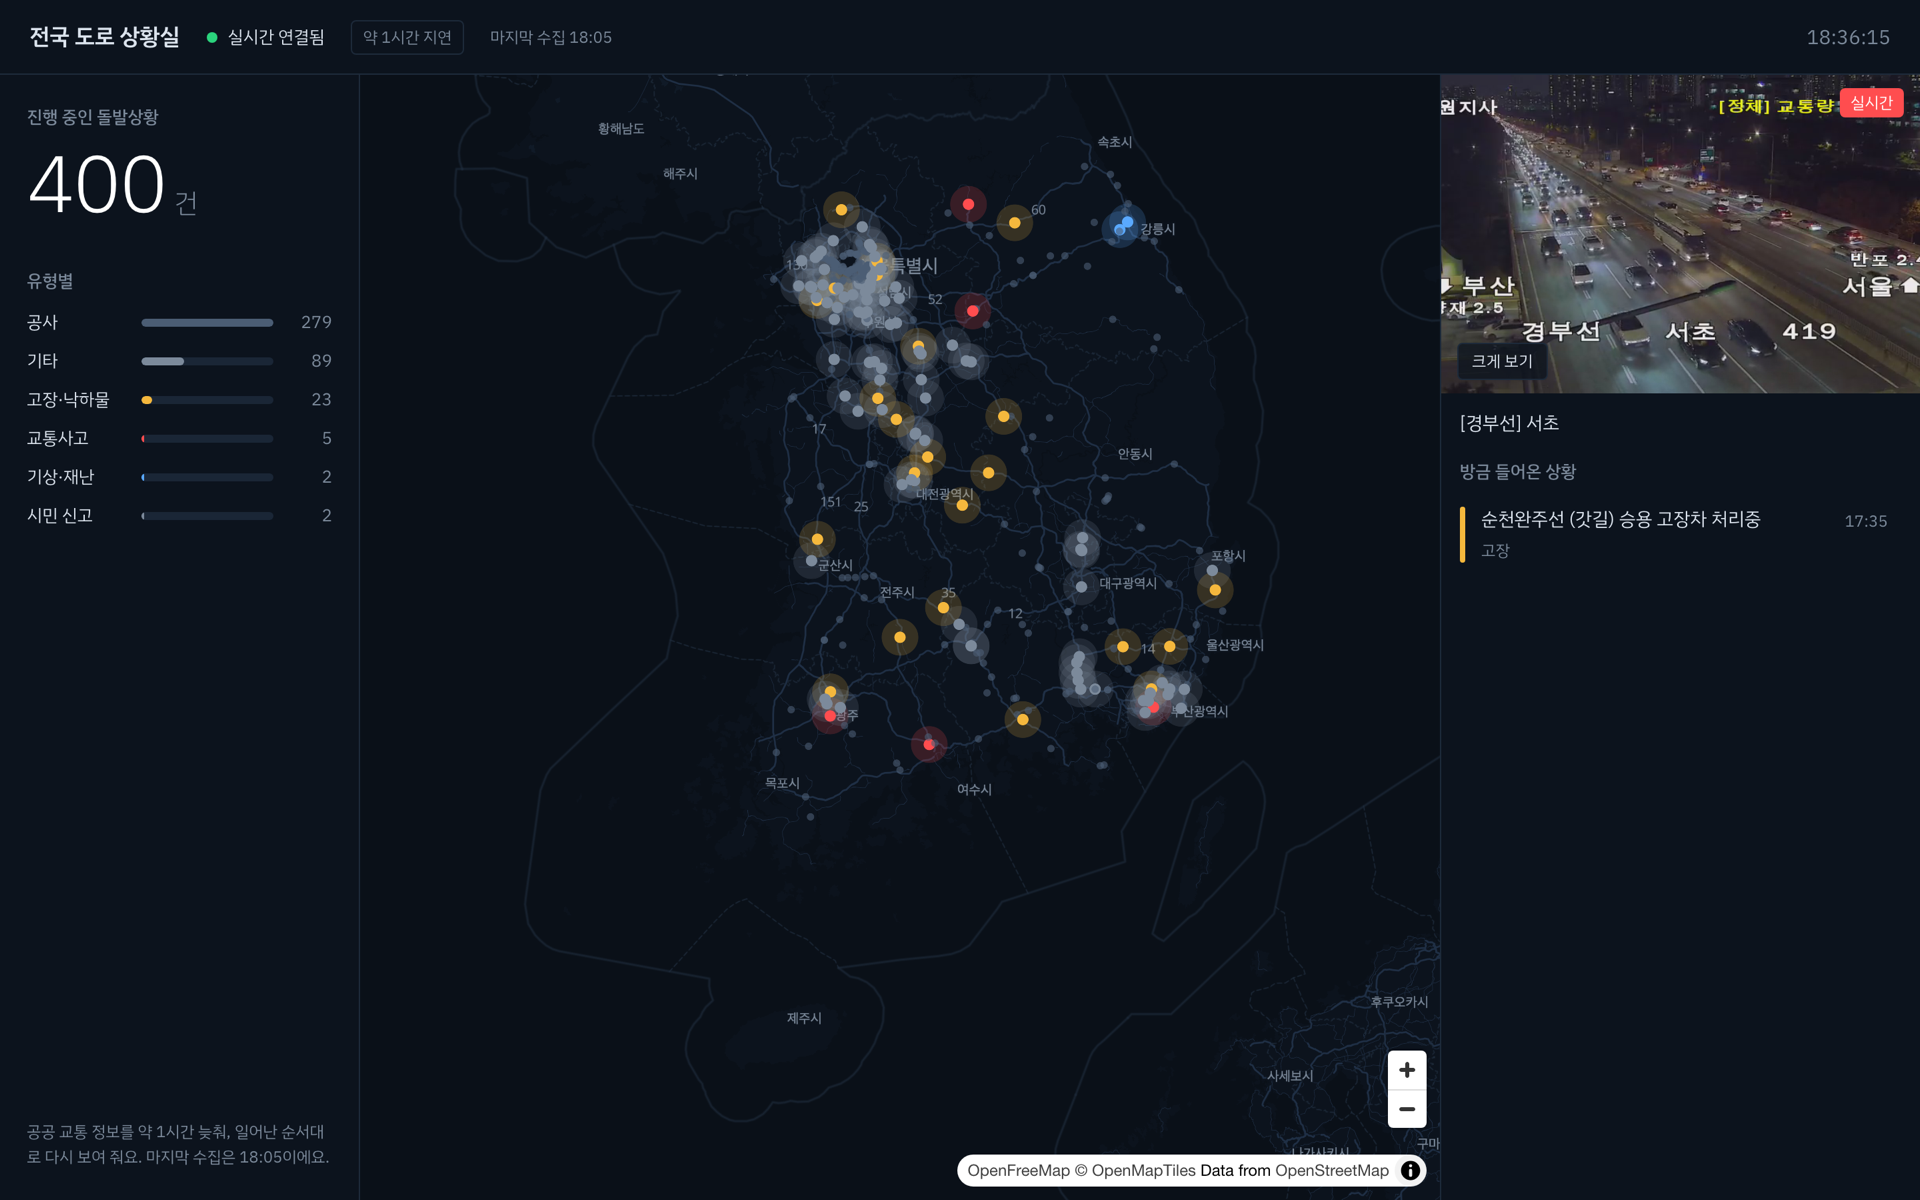
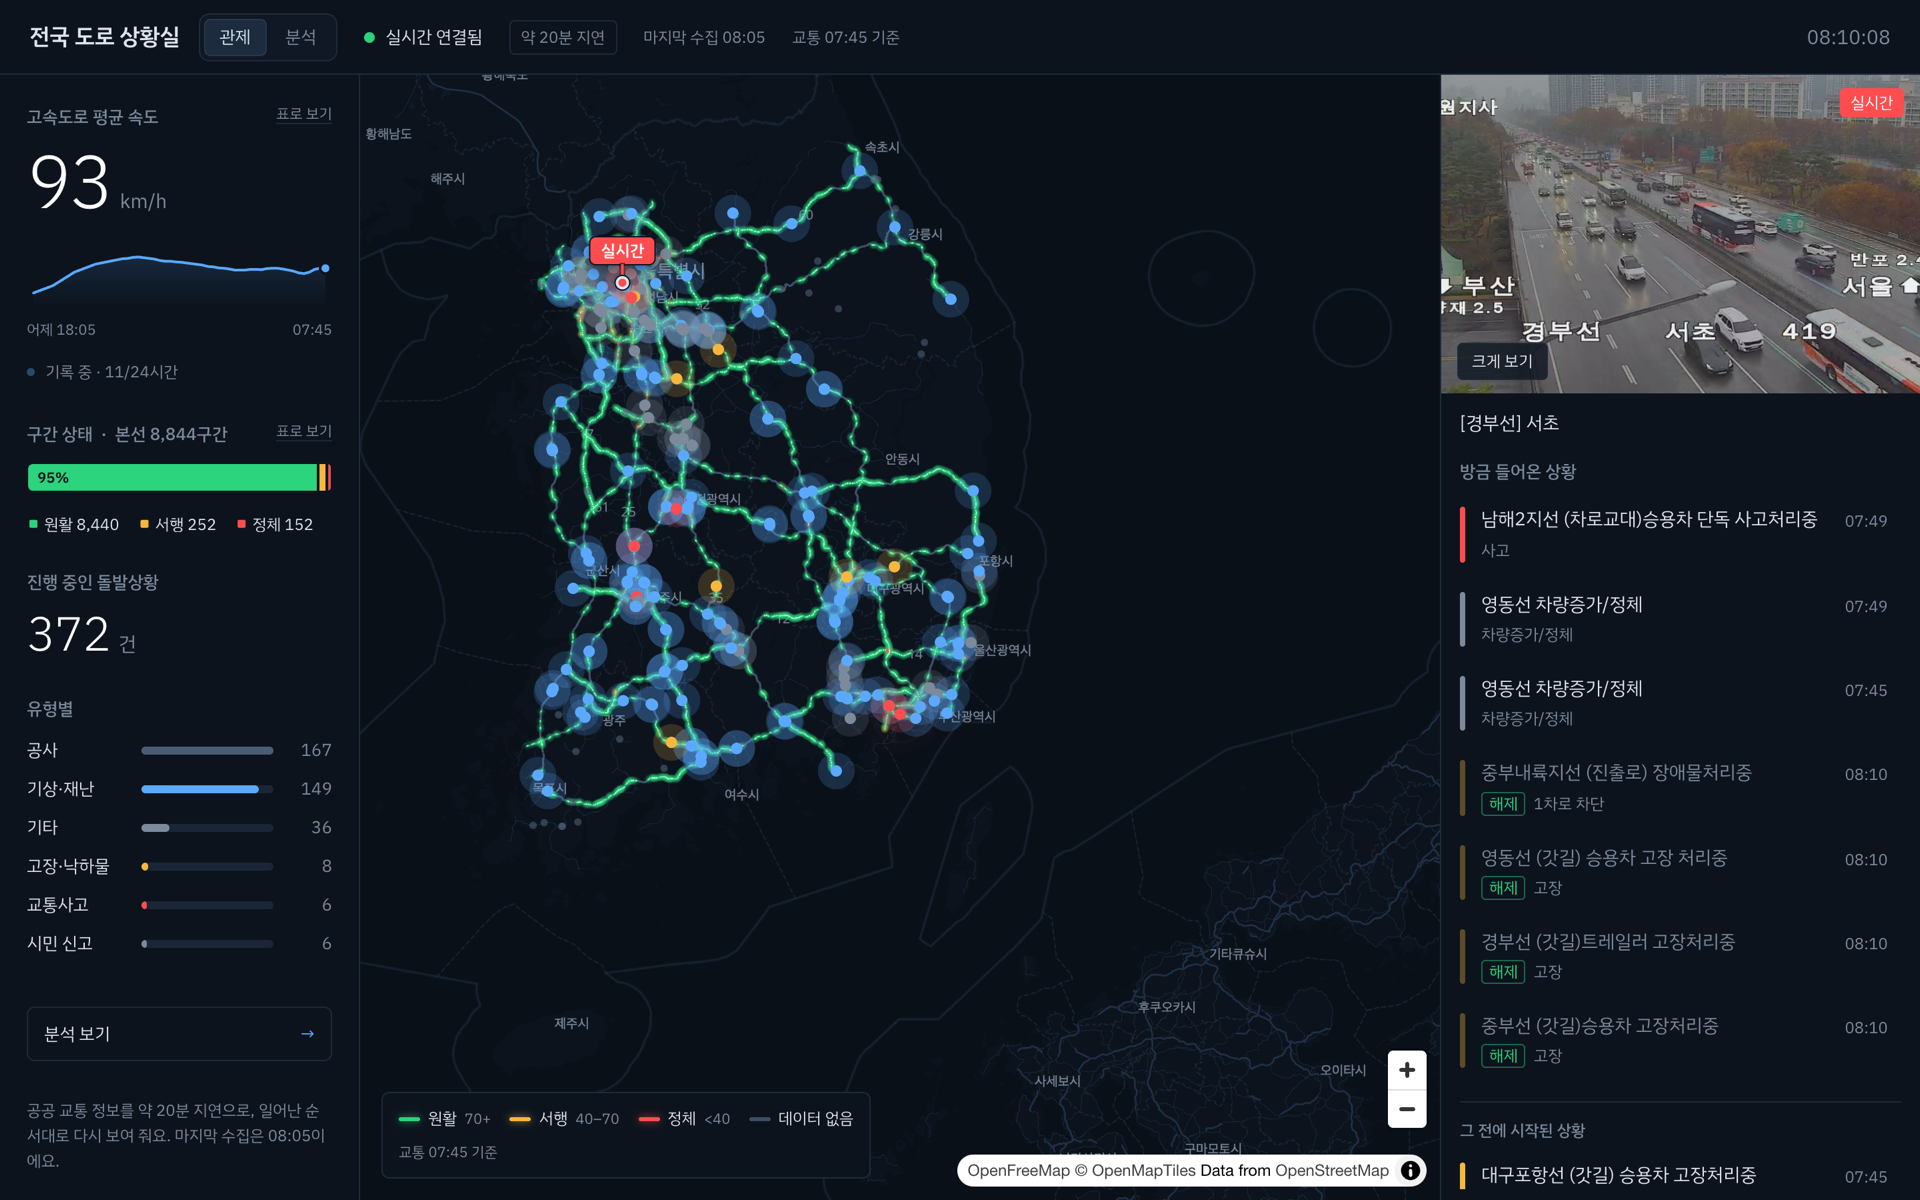
docs: 전국 도로 상황실 카드를 2차 운영 화면과 지금 숫자에 맞춤
카드가 1차(돌발 · 피드 · CCTV) 범위와 1시간 지연 그대로였다. 표지와 화면 두 장을 속도선이 보이는 2026-11-14 운영 화면으로 바꾸고,
지표에 고속도로 속도선(본선 8,844구간)과 지도 타일 재생성(가만히 둔 5초에 1,500번 → 0, 운영 실측)을 넣었다.
ITS 한도 상향 뒤 15분 수집 · 20분 지연으로 바뀐 숫자를 카드 · 구조도 · 근거 문서(project-data.md 6장)에 맞췄고, 테스트는 477건으로 고쳤다.

diff --git a/src/data/projects.ts b/src/data/projects.ts
@@ -631,37 +631,37 @@ export const projects: readonly Project[] = [
     slug: "traffic-room",
     name: "전국 도로 상황실",
     tagline:
-      "ITS 공공 데이터를 지도 · 실시간 피드 · CCTV 생방송 한 화면으로 압축한, 야간 도로 관제실",
+      "ITS 공공 데이터로 전국 고속도로를 실제 속도 색으로 빛나게 그리고, 돌발상황과 CCTV 생방송까지 한 화면에 모은 야간 도로 관제실",
     role: "주제 · 시각 방향 · 구조 선택은 직접, 설계 세부와 구현은 Claude Code",
     order: 6,
     cover: {
       src: "/projects/traffic-room/overview.png",
-      alt: "전국 도로 상황실 — 어두운 지도 위 돌발상황 400여 건과 경부선 CCTV",
+      alt: "전국 도로 상황실 — 속도 색으로 빛나는 전국 고속도로 위 돌발상황과 경부선 서초 CCTV",
     },
     metrics: [
       {
         label: "테스트",
-        value: "176건",
+        value: "477건",
         kind: "measured",
-        note: "Vitest 5 · 송출 순서 · 재접속 따라잡기 · 스케줄러 누락 · 월 예산 보호 재현 포함 · 2026.11.13",
+        note: "Vitest 5 · 송출 순서 · 재접속 따라잡기 · 스케줄러 누락 · 검증 후 덮어쓰기 · 수집 스크립트 재현 포함 · 2026.11.14",
       },
       {
-        label: "CCTV 주소 유효 시간",
-        value: "8시간 이상",
+        label: "고속도로 속도선",
+        value: "본선 8,844구간",
         kind: "measured",
-        note: "발급 후 10분~480분 사이 7회 실측 · 그래서 목록은 하루 3번만 새로 받는다",
+        note: "교통소통 전국 383,618구간 · 75MB 응답에서 본선만 남김 · 위치는 표준노드링크 SHP 를 직접 읽어 연결 · 15분마다 새 색",
       },
       {
-        label: "ITS 호출",
-        value: "월 744 + 186건",
+        label: "지도 타일 재생성",
+        value: "5초에 1,500번 → 0",
         kind: "measured",
-        note: "서비스별 월 1,000건 한도 안 · 돌발 매시 1회 · CCTV 목록 하루 3회 × 2종 · 950건에서 자동 정지",
+        note: "가만히 둔 운영 화면의 워커 메시지 실측 · 흐르는 점선을 dasharray 대신 패턴 이미지 + updateImage 로 바꿔서",
       },
       {
         label: "지연 재생",
-        value: "발생 시각 + 60분",
+        value: "발생 시각 + 20분",
         kind: "structural",
-        note: "매시 수집한 새 상황을 실제 간격대로 하나씩 WebSocket 송출 · 가짜 이벤트 없음 · 지연은 화면에 표시",
+        note: "새 상황을 실제 간격대로 하나씩 WebSocket 송출 · 가짜 이벤트 없음 · 처음 월 1,000건 한도일 땐 + 60분, 한도 상향 뒤 15분 수집으로 줄임",
       },
       {
         label: "재접속",
@@ -673,27 +673,27 @@ export const projects: readonly Project[] = [
         label: "CCTV 재생",
         value: "브라우저 직접 HLS",
         kind: "structural",
-        note: "모든 단계 CORS * 를 실측으로 확인 · 중계 서버 없음 · 만료 시 새 주소 1회 요청 후 안내",
+        note: "모든 단계 CORS * 를 실측으로 확인 · 중계 서버 없음 · 끊기면 복구 → 새 주소 1회 → 회색 \"연결 안 됨\"",
       },
       {
         label: "운영비",
         value: "0원",
         kind: "structural",
-        note: "Vercel Hobby · Render 무료 · Neon 무료 · OpenFreeMap · 수집은 국내 회선 Mac launchd",
+        note: "Vercel Hobby · Render 무료 · Neon 무료(덮어쓰기로 2MB 안팎) · OpenFreeMap · 수집은 국내 회선 Mac launchd",
       },
     ],
     screens: [
       {
         kind: "image",
         src: "/projects/traffic-room/arrival.png",
-        alt: "실시간 피드에 방금 들어온 고장 상황 한 건",
-        caption: "방금 들어온 상황 — 17:35에 난 고장이 18:35에 WebSocket으로 도착했다(운영 화면)",
+        alt: "실시간 피드 맨 위에 방금 들어온 사고 한 건과 해제된 상황들",
+        caption: "방금 들어온 상황 — 07:49에 난 사고가 20분 뒤 WebSocket으로 도착했다. 끝난 상황은 \"해제\"로 내려간다(운영 화면)",
       },
       {
         kind: "image",
         src: "/projects/traffic-room/cctv.png",
-        alt: "중부내륙선 고장을 고르자 영산 CCTV가 재생되는 화면",
-        caption: "상황을 누르면 지도가 옮겨 가고 가장 가까운 CCTV가 재생된다. 근처 CCTV로 바꿀 수 있다",
+        alt: "대구포항선 고장을 고르자 청통와촌 CCTV가 재생되고 지도 핀에 CCTV 이름 툴팁이 뜬 화면",
+        caption: "상황을 누르면 가장 가까운 CCTV가 재생되고, 지도의 \"실시간\" 핀이 그 자리를 가리킨다. 핀에 마우스를 올리면 CCTV 이름",
       },
       {
         kind: "image",
@@ -704,10 +704,10 @@ export const projects: readonly Project[] = [
     ],
     diagrams: [
       {
-        title: "전국 도로 상황실 데이터 흐름과 1시간 지연 재생",
+        title: "전국 도로 상황실 데이터 흐름과 지연 재생",
         src: "/diagrams/traffic-flow.svg",
         description:
-          "ITS는 클라우드 IP를 받지 않아서 수집은 국내 회선의 Mac이 매시 5분에 한다. 새로 생긴 상황은 실제 발생 시각 + 60분을 송출 시각으로 함께 저장하고, 실시간 서버가 30분마다 다가올 이벤트를 읽어 그 시각에 WebSocket으로 내보낸다. 첫 화면은 Vercel API의 스냅샷으로 먼저 채우고, CCTV 영상은 브라우저가 직접 재생한다.",
+          "ITS는 클라우드 IP를 받지 않아서 수집은 국내 회선의 Mac이 15분마다 한다. 새로 생긴 상황은 실제 발생 시각 + 20분을 송출 시각으로 함께 저장하고, 실시간 서버가 다가올 이벤트를 읽어 그 시각에 WebSocket으로 내보낸다. 고속도로 속도와 화면 공통 지표는 같은 수집에서 나와 SSE로 흐른다. 첫 화면은 Vercel API의 스냅샷으로 먼저 채우고, CCTV 영상은 브라우저가 직접 재생한다.",
       },
     ],
     troubleshooting: {
@@ -726,8 +726,9 @@ export const projects: readonly Project[] = [
       { name: "TypeScript 7", category: "language" },
       { name: "MapLibre GL 6 · OpenFreeMap", category: "framework" },
       { name: "hls.js", category: "framework" },
+      { name: "ECharts 6", category: "framework" },
       { name: "zustand", category: "state" },
-      { name: "Fastify · @fastify/websocket", category: "framework" },
+      { name: "Fastify · WebSocket · SSE", category: "framework" },
       { name: "zod (메시지 봉투 검증)", category: "data" },
       { name: "Neon Postgres", category: "data" },
       { name: "pnpm 모노레포", category: "tooling" },

diff --git a/docs/project-data.md b/docs/project-data.md
@@ -263,28 +263,33 @@ M1에서는 쇼룸 끝까지 최고 단계를 유지했습니다(평균 59.9fps)
 ## 6. 전국 도로 상황실 (traffic-room)
 
 **역할 분담**: 주제 · 시각 방향 · 구조 선택은 직접, 설계 세부와 구현은 Claude Code. 카드에 `role`로 밝힌다.
-2026-11-12 1차 운영 배포. 근거는 traffic-room 저장소 README와 설계 문서 `docs/superpowers/specs/2026-11-12-traffic-room-design.md`.
+2026-11-12 1차 운영 배포, 2026-11-13 2차(고속도로 속도선 · SSE 지표 · `/insights`) 운영 반영, 2026-11-14 운영 개선(지도 성능 · 툴팁 · 수집 로그)까지.
+근거는 traffic-room 저장소 README와 설계 문서 `docs/superpowers/specs/2026-11-12-traffic-room-design.md`, `2026-11-13-traffic-room-phase2-design.md`.
 
 - 직접 한 것: 주제(전국 고속도로 · 국도 관제), 시안 A · B · C 중 C "야간 속도 지도", CCTV 크게 보기, Next.js,
-  프론트(Vercel)와 실시간 서버(Render) 분리, 0원 운영(결제 수단 연결 금지), 1시간 지연 재생에 동의, cron-job.org 깨우기 설정.
+  프론트(Vercel)와 실시간 서버(Render) 분리, 0원 운영(결제 수단 연결 금지), 지연 재생에 동의, cron-job.org 깨우기 설정,
+  2차 범위(고속도로만 · 덮어쓰기 저장 · 검증된 데이터만 · 한국 범위 · 관제 화면은 핵심 차트만), ITS 한도 상향 신청,
+  운영 중 불편 제기(핀 툴팁, 확대 · 축소 때 속도선 지연).
 - Claude가 정한 것: 송출 순서대로 이벤트 번호 매기기, 재접속 따라잡기(`/ws?lastId=`, 연결별 순서 큐), 스케줄러 로드 창,
-  수집을 Mac launchd로 옮기기 등 R1~R22. 설계 문서와 작업 기록에 "틀렸을 때 비용"과 함께 남겼다.
-- 1차 범위는 돌발 마커 · WebSocket 지연 재생 · 피드 · CCTV · 연결 상태다. 도로 속도선 · SSE 지표 · 차트는 2차라서 카드에 쓰지 않는다.
+  수집을 Mac launchd로 옮기기 등 R1~R22, 2차 Ruling, 성능 원인 측정(워커 메시지 계수)과 패턴 이미지 전환.
+  설계 문서와 작업 기록에 "틀렸을 때 비용"과 함께 남겼다.
+- `/insights` 분석 페이지는 교통소통 API가 과거 값을 주지 않아 배포 뒤 하루에 걸쳐 차오른다. 카드 스크린샷에는 아직 넣지 않았다(2026-11-14 아침 11/24시간).
 - 수집이 사용자 Mac에 묶여 있어서, Mac이 잠든 동안은 새 상황이 없다(화면에 마지막 수집 시각 표시). 카드에 "24시간 무중단"처럼 쓰지 않는다.
 
 ### metrics
 | label | value | baseline | note |
 |---|---|---|---|
-| 테스트 | 176건 | | `pnpm test`, Test Files 20, 2026-11-13 (커밋 `c7189ff` 기준. 피드 재현 테스트 3개 추가 전 `06a9ffb` 때 173건) |
-| CCTV 주소 유효 시간 | 8시간 이상 | | 발급 후 10~480분 사이 7회 302 정상. 그 뒤는 재지 않았다. 설계 문서 3장 |
-| ITS 호출 | 월 744 + 186건 | | 서비스별 월 1,000건. 돌발 매시 1회(744), CCTV 목록 ex · its 각 하루 3회(186). 950건 정지는 `apps/collector` 예산 보호. `docs/deploy.md` |
-| 지연 재생 | 발생 시각 + 60분 | | 송출 시각은 [수집, 수집+60분]으로 묶고 전역 최댓값 이상으로 보정. `packages/db` event_log id = 송출 순서 |
+| 테스트 | 477건 | | `pnpm test`, Test Files 45, 2026-11-14 (커밋 `146ca0a` 기준. 1차 카드 때 176건) |
+| 고속도로 속도선 | 본선 8,844구간 | | 교통소통 전국 응답 383,618구간 · 75MB 실측. 표준노드링크 본선(CONNECT=0) 21,233구간 중 교통 데이터가 오는 구간. 수집 로그 `traffic ok links=8844` |
+| 지도 타일 재생성 | 5초에 1,500번 → 0 | | 2026-11-14 운영 화면에서 `Worker.prototype.postMessage` 계수, 지도를 가만히 둔 5초: 고치기 전 레이어 갱신 125 · 타일 다시 만들기 1,500 → 배포 뒤 0. `line-dasharray` 는 cross-faded-data-driven 이라 setPaintProperty 마다 소스 reload(MapLibre 6.18 `style_layer.ts`). 커밋 `7c8d5ba` |
+| 지연 재생 | 발생 시각 + 20분 | 처음 + 60분 | 서비스별 월 1,000건일 때 매시 수집 · + 60분. 한도 3,000건 승인(2026-11-13) 뒤 15분 수집(월 2,976건) · DELAY_MINUTES=20, 2,990건에서 정지. 커밋 `c804952` |
 | 재접속 | /ws?lastId= · 연결별 순서 큐 | | `apps/realtime/src/server.ts` · `hub.ts`. 테스트 `server.test.ts` "lastId in the url is resumed before any broadcast", "a broadcast during a slow resume arrives after the resumed events". 커밋 `e8189cc`, `126ce4f` |
-| CCTV 재생 | 브라우저 직접 HLS | | `cctvType=4`, 재생목록 · chunklist · 세그먼트 모두 `Access-Control-Allow-Origin: *`. `apps/web/src/components/CctvPanel.tsx` (새 주소 1회 요청, 10초 대기) |
-| 운영비 | 0원 | | Vercel Hobby · Render free(싱가포르) · Neon free · OpenFreeMap · cron-job.org |
+| CCTV 재생 | 브라우저 직접 HLS | | `cctvType=4`, 재생목록 · chunklist · 세그먼트 모두 `Access-Control-Allow-Origin: *`. 미디어 오류는 hls.js 복구 → 새 주소 1회(10초) → 회색 "연결 안 됨"(`CctvPanel.tsx`, 커밋 `a1becf7`, `146ca0a`) |
+| 운영비 | 0원 | | Vercel Hobby · Render free(싱가포르) · Neon free(덮어쓰기로 2MB 안팎) · OpenFreeMap · cron-job.org |
 
-스크린샷 4장은 2026-11-12 운영 화면(https://traffic-room.vercel.app)을 1440×900 · 2배로 찍었다. `arrival.png`의 "방금 들어온 상황"은
-17:35에 난 실제 고장이 18:35에 송출된 장면이다.
+스크린샷: `overview.png` · `cctv.png` · `arrival.png` 는 2026-11-14 08:07~08:10 운영 화면(https://traffic-room.vercel.app)을
+1440×900 · 2배로 찍어 1920×1200 으로 줄였다(설치된 Chrome + Playwright, CCTV H.264 재생 때문). `arrival.png` 의 "방금 들어온 상황"은
+07:49에 난 실제 사고가 20분 뒤 송출된 장면이다. `fullscreen.png` 는 2026-11-12 그대로(영상만 보여 바뀐 정보가 없다).
 
 ### troubleshooting: 재접속하면 놓친 이벤트가 영영 사라졌다
 
